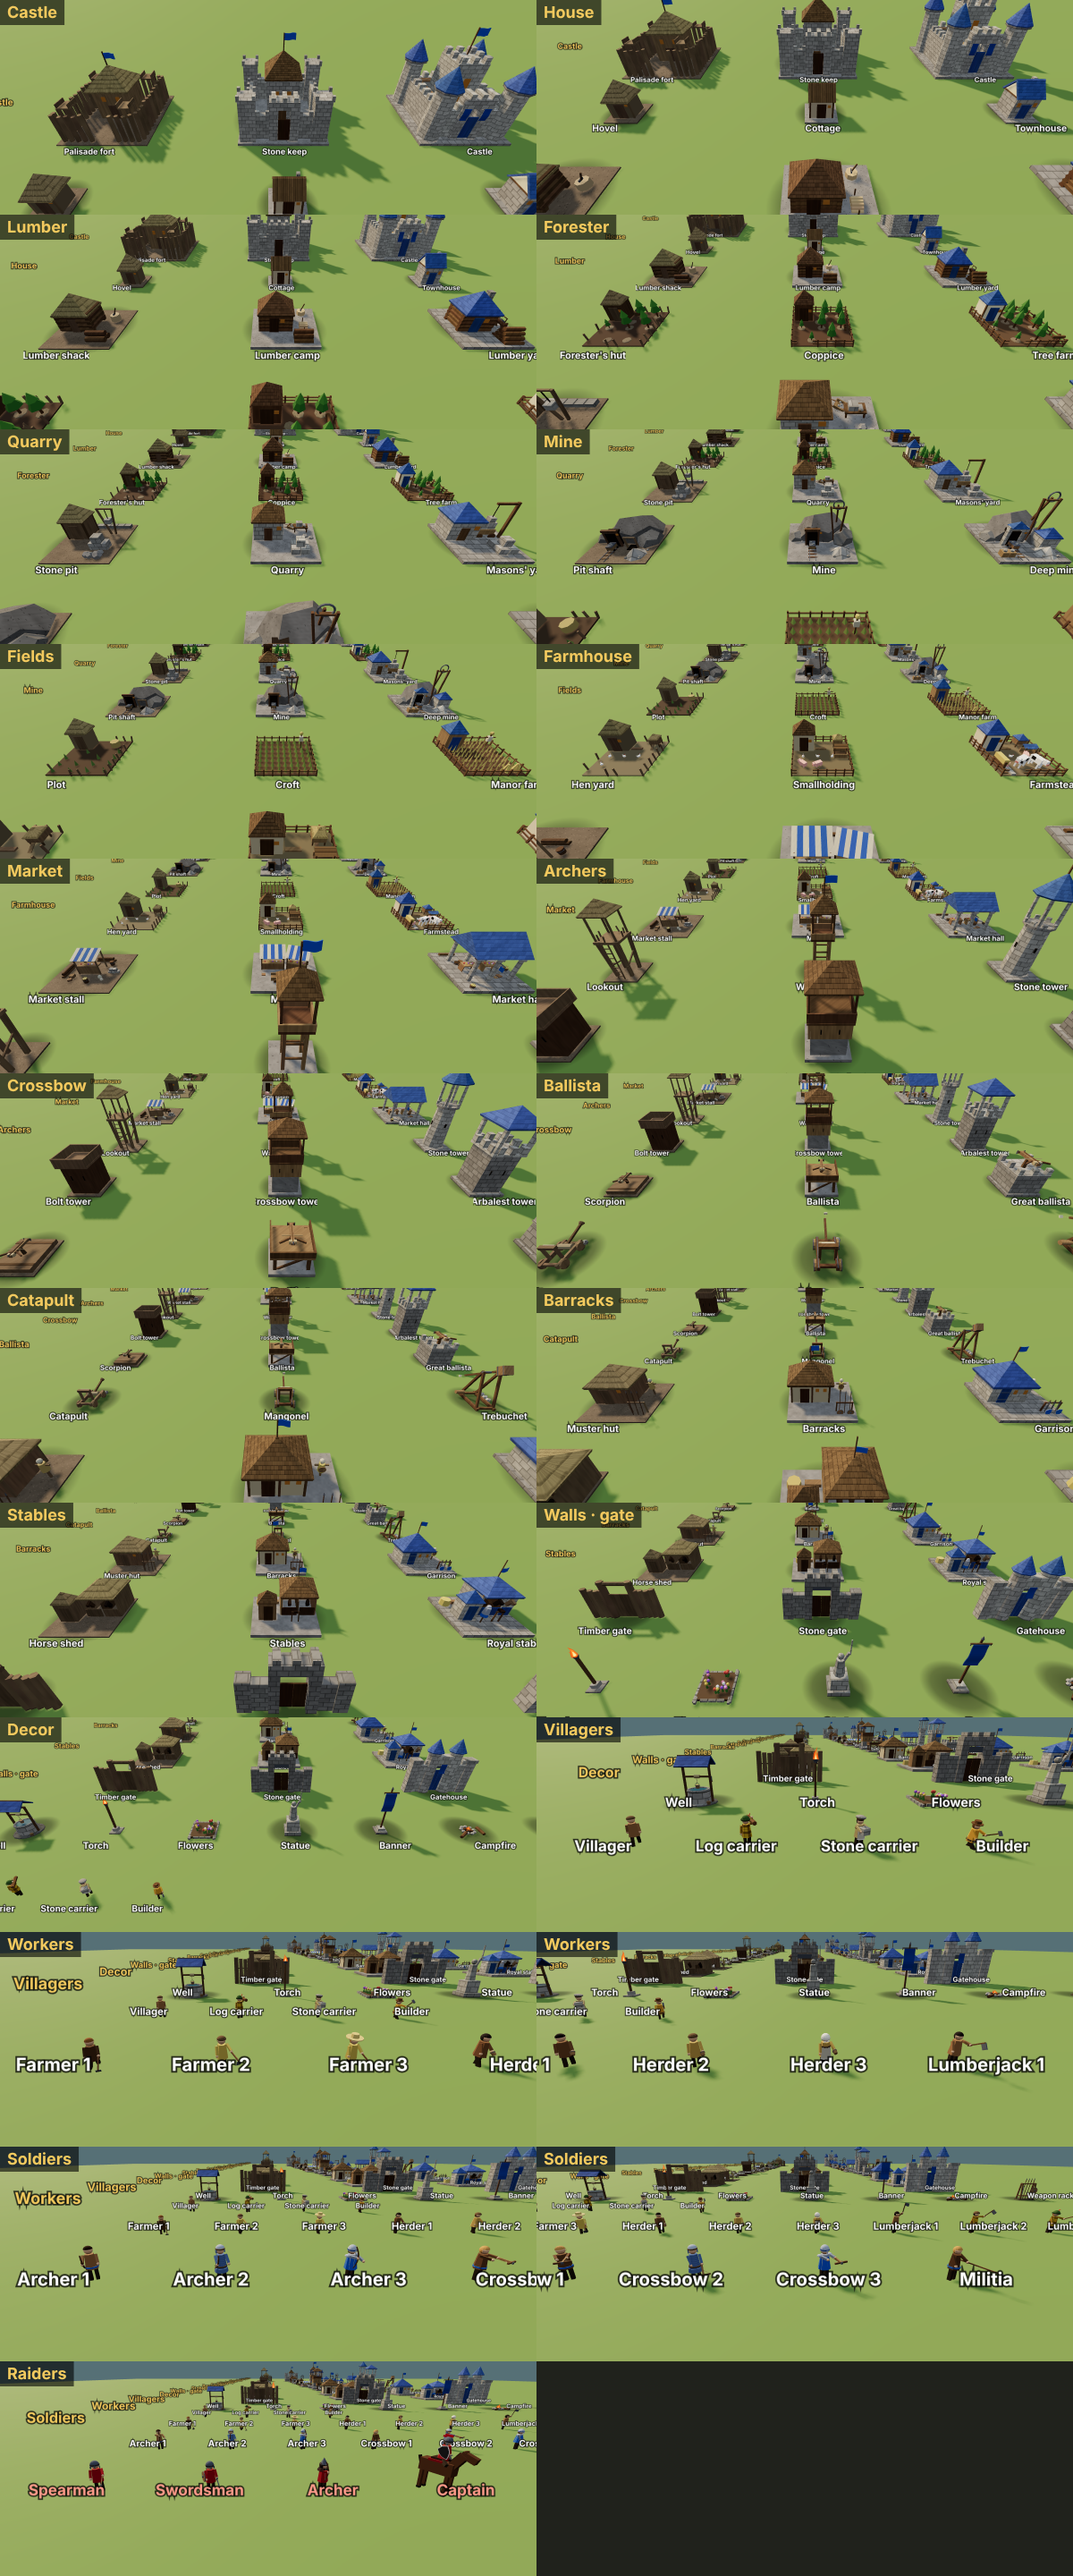
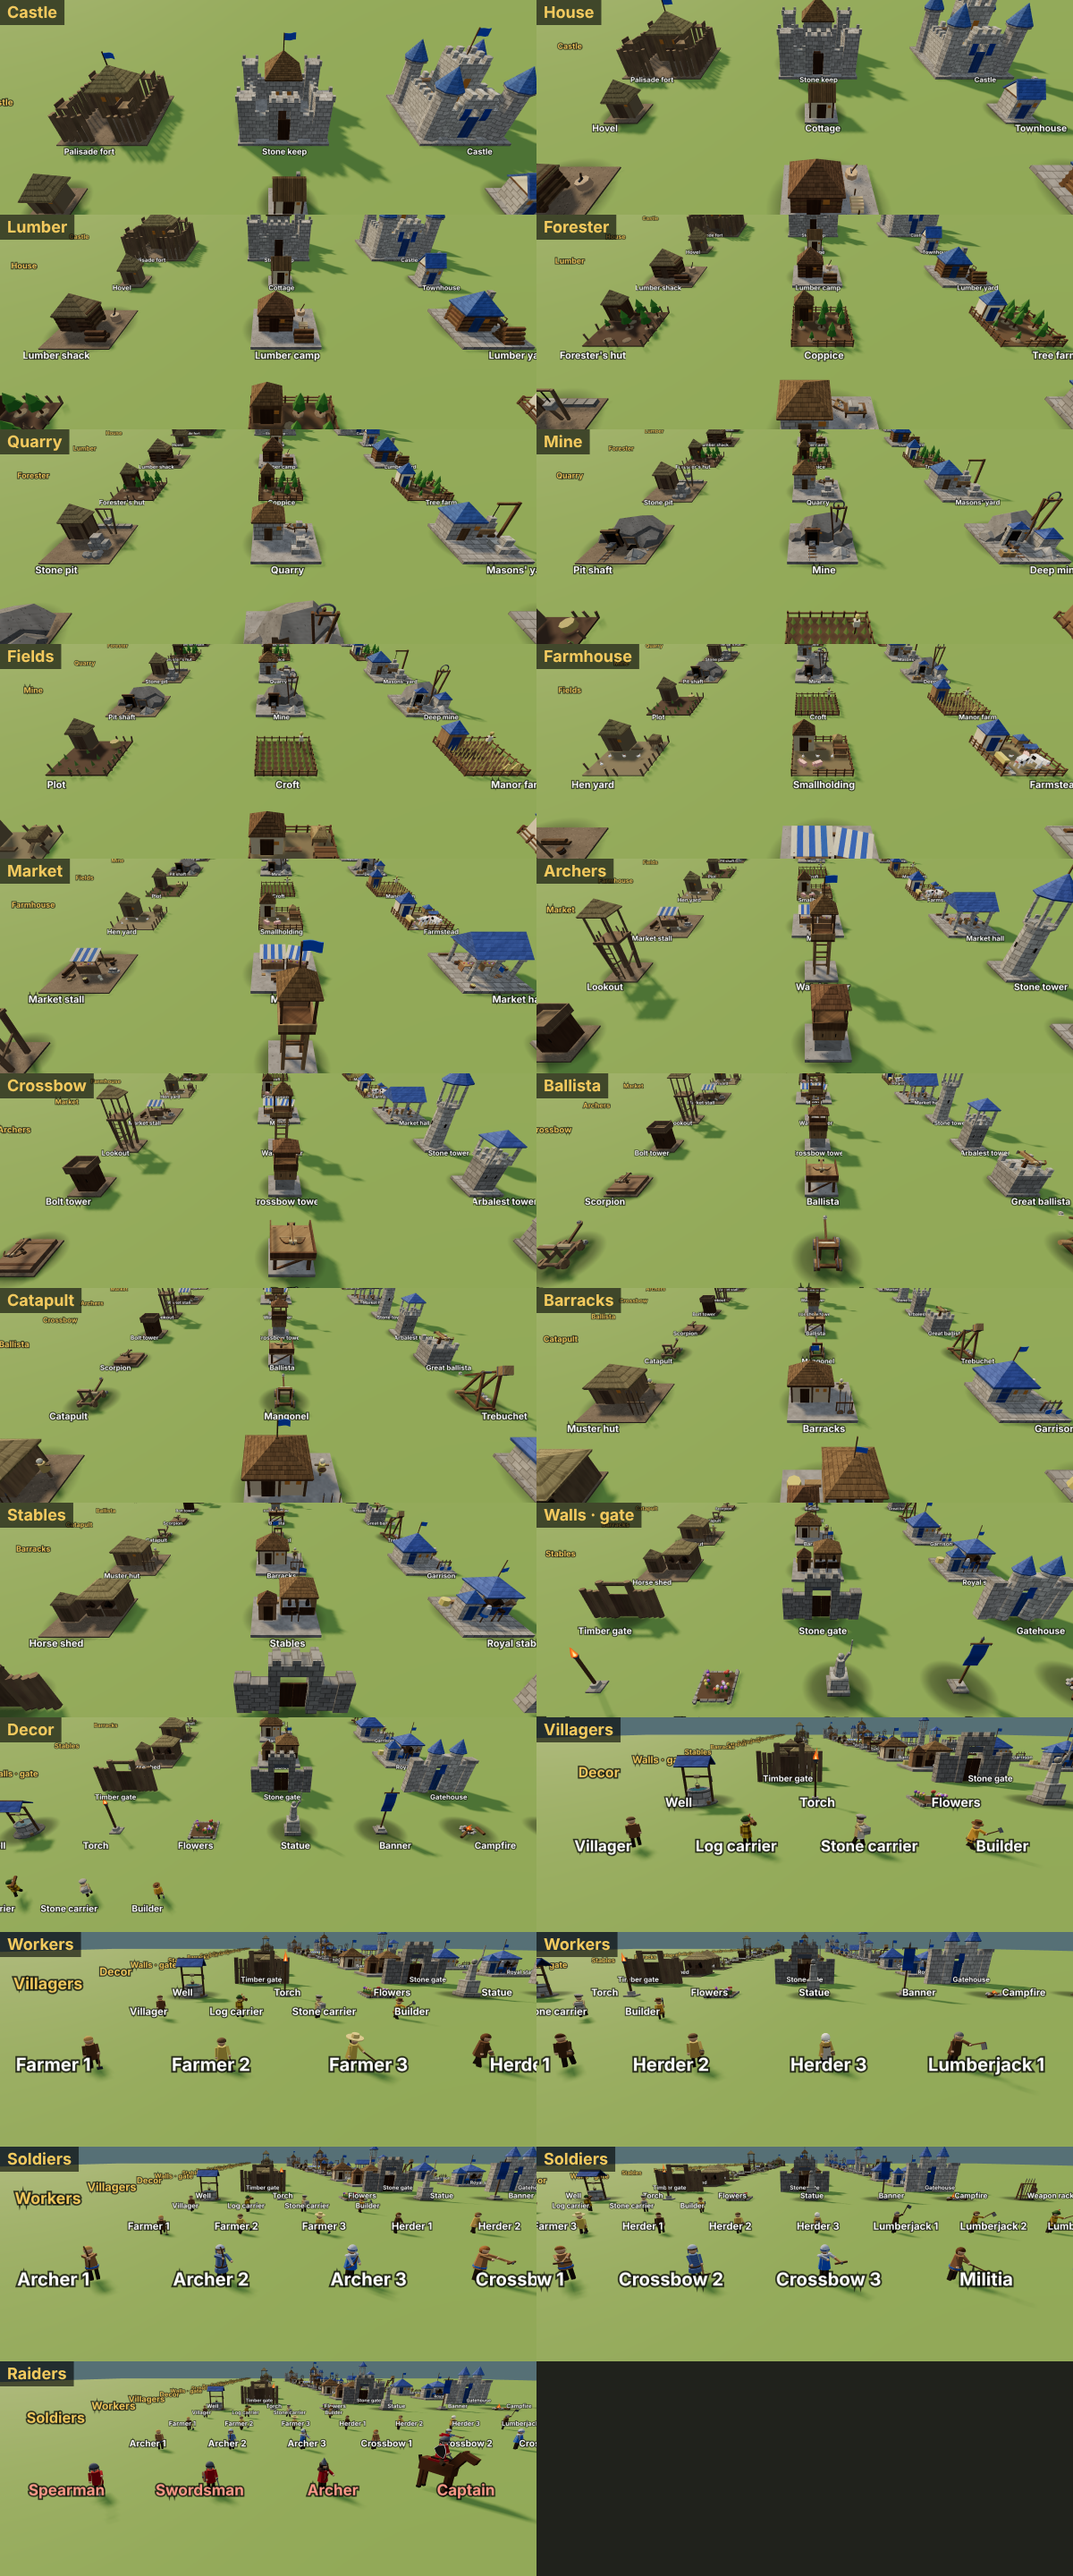
Decor picks four (five tools per tab with the path), smaller crossbow towers, curved ballista arms, catapult cups face forward with a stone, gallery lawn and camera reach every row
Claude-Session: https://claude.ai/code/session_01AE8sRRsVdpH9ETfQvtppox

diff --git a/index.html b/index.html
@@ -460,7 +460,7 @@ const DEF = {
             tiers: ['Horse shed', 'Stables', 'Royal stables'] },
   crossbow: { size: 1, name: 'Crossbow', maxdh: 1.8, hp: [200, 300, 430], cost: { wood: 20, gold: 15 }, noRoad: true, weapon: 'crossbow',
             up: [{ wood: 35, gold: 35 }, { stone: 45, gold: 65 }], range: [8, 9, 10], dmg: [6, 8, 10], rate: [.55, .48, .4],
-            archers: [2, 2, 2], shootY: [3.1, 3.4, 3.7], tiers: ['Bolt tower', 'Crossbow tower', 'Arbalest tower'] },
+            archers: [2, 2, 2], shootY: [2.4, 2.6, 2.85], tiers: ['Bolt tower', 'Crossbow tower', 'Arbalest tower'] },
   ballista: { size: 1, name: 'Ballista', maxdh: 1.8, hp: [170, 250, 350], cost: { wood: 30, gold: 25 }, noRoad: true,
             up: [{ wood: 40, gold: 45 }, { stone: 50, gold: 80 }], range: [14, 16, 18], dmg: [30, 42, 58], rate: [3.2, 2.9, 2.6], crew: [2, 2, 2],
             tiers: ['Scorpion', 'Ballista', 'Great ballista'] },
@@ -2019,35 +2019,36 @@ function makeFarmhouse(tier) {
 // crossbow tower: squat and solid next to the archers' tall lookout, an open fighting top behind a parapet for two crossbowmen:
 // tier 1 a log blockhouse with a plank parapet, tier 2 stone below a timber hoarding under a log canopy, tier 3 stone with
 // battlements and the blue roof on corner piers
-const XBOW_TOP = [2.05, 2.35, 2.65];
+const XBOW_K = .74, XBOW_TOP = [2.05, 2.35, 2.65].map(y => y * XBOW_K);   // fighting-top heights as drawn
 function makeCrossbowTower(tier, plinth) {
-  const g = new THREE.Group(), top = XBOW_TOP[tier - 1], HEAD = 1.55;
+  const g = new THREE.Group(), top = XBOW_TOP[tier - 1] / XBOW_K, HEAD = 1.55;
   if (plinth) g.add(box(2.0, 1.8, 2.0, tier === 2 ? M.plainStone : M.stone, 0, -.7, 0));
+  const t = new THREE.Group(); t.scale.setScalar(XBOW_K); g.add(t);   // drawn at XBOW_K: squat beside the archers' lookout, not bigger than it
   if (tier === 1) {
-    g.add(box(1.5, top - .12, 1.5, M.log, 0, (top - .12) / 2 + .06, 0));
-    for (const sx of [-1, 1]) g.add(box(.06, .3, .02, M.dark, sx * .35, 1.2, .76));
-    g.add(box(1.8, .12, 1.8, M.rough, 0, top - .06, 0));
-    for (const [x, z, w, d] of [[0, .87, 1.8, .06], [0, -.87, 1.8, .06], [.87, 0, .06, 1.8], [-.87, 0, .06, 1.8]]) g.add(box(w, .5, d, M.rough, x, top + .25, z));
-    for (let n = 0; n < 6; n++) { const r = box(.05, .05, .5, M.rough, -.9, .25 + n * .32, -.2); r.rotation.x = 0; g.add(r); }   // ladder rungs up the side
-    for (const sz of [-.42, .02]) g.add(box(.05, top, .05, M.rough, -.92, top / 2, sz - .2));
+    t.add(box(1.5, top - .12, 1.5, M.log, 0, (top - .12) / 2 + .06, 0));
+    for (const sx of [-1, 1]) t.add(box(.06, .3, .02, M.dark, sx * .35, 1.2, .76));
+    t.add(box(1.8, .12, 1.8, M.rough, 0, top - .06, 0));
+    for (const [x, z, w, d] of [[0, .87, 1.8, .06], [0, -.87, 1.8, .06], [.87, 0, .06, 1.8], [-.87, 0, .06, 1.8]]) t.add(box(w, .5, d, M.rough, x, top + .25, z));
+    for (let n = 0; n < 6; n++) { const r = box(.05, .05, .5, M.rough, -.9, .25 + n * .32, -.2); r.rotation.x = 0; t.add(r); }   // ladder rungs up the side
+    for (const sz of [-.42, .02]) t.add(box(.05, top, .05, M.rough, -.92, top / 2, sz - .2));
   } else if (tier === 2) {
-    g.add(box(1.55, top - 1.0, 1.55, M.plainStone, 0, (top - 1.0) / 2 + .2, 0));
-    g.add(box(1.75, .85, 1.75, M.wood, 0, top - .55, 0));
-    for (const sx of [-1, 1]) g.add(box(.05, .26, .02, M.dark, sx * .36, top - .55, .88));
-    g.add(box(1.85, .1, 1.85, M.timber, 0, top - .07, 0));
-    for (const [x, z, w, d] of [[0, .9, 1.85, .06], [0, -.9, 1.85, .06], [.9, 0, .06, 1.85], [-.9, 0, .06, 1.85]]) g.add(box(w, .5, d, M.timber, x, top + .25, z));
-    for (const sx of [-1, 1]) for (const sz of [-1, 1]) g.add(box(.08, HEAD, .08, M.timber, sx * .85, top + HEAD / 2, sz * .85));
-    g.add(pyramid(1.45, .7, 1, M.thatch, top + HEAD + .35));
+    t.add(box(1.55, top - 1.0, 1.55, M.plainStone, 0, (top - 1.0) / 2 + .2, 0));
+    t.add(box(1.75, .85, 1.75, M.wood, 0, top - .55, 0));
+    for (const sx of [-1, 1]) t.add(box(.05, .26, .02, M.dark, sx * .36, top - .55, .88));
+    t.add(box(1.85, .1, 1.85, M.timber, 0, top - .07, 0));
+    for (const [x, z, w, d] of [[0, .9, 1.85, .06], [0, -.9, 1.85, .06], [.9, 0, .06, 1.85], [-.9, 0, .06, 1.85]]) t.add(box(w, .5, d, M.timber, x, top + .25, z));
+    for (const sx of [-1, 1]) for (const sz of [-1, 1]) t.add(box(.08, HEAD, .08, M.timber, sx * .85, top + HEAD / 2, sz * .85));
+    t.add(pyramid(1.45, .7, 1, M.thatch, top + HEAD + .35));
   } else {
-    g.add(box(1.6, top, 1.6, M.stone, 0, top / 2 + .2, 0));
-    for (const sx of [-1, 1]) g.add(box(.06, .3, .03, M.dark, sx * .38, top * .6, .81));
-    g.add(box(1.85, .14, 1.85, M.stone2, 0, top + .13, 0));
+    t.add(box(1.6, top, 1.6, M.stone, 0, top / 2 + .2, 0));
+    for (const sx of [-1, 1]) t.add(box(.06, .3, .03, M.dark, sx * .38, top * .6, .81));
+    t.add(box(1.85, .14, 1.85, M.stone2, 0, top + .13, 0));
     for (let n = 0; n < 4; n++) for (const k of [-1, 0, 1]) {               // battlements: merlons with gaps on every side
       const a = n * Math.PI / 2, [x, z] = [Math.sin(a) * .86 + Math.cos(a) * k * .62, Math.cos(a) * .86 - Math.sin(a) * k * .62];
-      g.add(box(.3, .45, .3, M.stone2, x, top + .42, z));
+      t.add(box(.3, .45, .3, M.stone2, x, top + .42, z));
     }
-    for (const sx of [-1, 1]) for (const sz of [-1, 1]) g.add(box(.18, HEAD, .18, M.stone2, sx * .82, top + .2 + HEAD / 2, sz * .82));
-    g.add(pyramid(1.5, .85, 1, M.roofBlue, top + .2 + HEAD + .42));
+    for (const sx of [-1, 1]) for (const sz of [-1, 1]) t.add(box(.18, HEAD, .18, M.stone2, sx * .82, top + .2 + HEAD / 2, sz * .82));
+    t.add(pyramid(1.5, .85, 1, M.roofBlue, top + .2 + HEAD + .42));
   }
   return g;
 }
@@ -2059,9 +2060,16 @@ function ballistaTurret(k) {
   const t = new THREE.Group(); t.userData.turret = true;
   t.add(cyl(.07, .1, .45, 6, M.timber, 0, .22, 0));
   t.add(box(.16, .13, 1.15, M.wood, 0, .5, .05));                                    // the stock
-  for (const sx of [-1, 1]) { const arm = box(.06, .07, .62, M.timber, sx * .27, .52, .42); arm.rotation.y = sx * 1.05; t.add(arm); }
+  // curved bow arms: out from the springs, bowing forward, the tips swept back to the string
+  for (const sx of [-1, 1]) {
+    const P = k => { const u = k / 6; return [sx * (.1 + .42 * u), .52, .5 + .16 * Math.sin(Math.PI * u * .8) - .3 * u * u]; };
+    for (let k = 0; k < 6; k++) {
+      const [x0, y0, z0] = P(k), [x1, , z1] = P(k + 1), L = Math.hypot(x1 - x0, z1 - z0);
+      const sg = box(.065 - k * .006, .07 - k * .005, L + .02, M.timber, (x0 + x1) / 2, y0, (z0 + z1) / 2); sg.rotation.y = Math.atan2(x1 - x0, z1 - z0); t.add(sg);
+    }
+  }
   for (const sx of [-1, 1]) t.add(box(.13, .16, .13, ropeM, sx * .09, .52, .52));      // torsion springs either side of the stock
-  t.add(box(.86, .015, .015, ropeM, 0, .56, .2));                                      // the drawn string
+  t.add(box(1.04, .015, .015, ropeM, 0, .52, .26));                                     // the drawn string, between the arm tips
   const bolt = new THREE.Group(); bolt.userData.bolt = true; t.add(bolt);
   bolt.add(box(.035, .035, .95, M.timber, 0, .6, .15)); const tip = cone(.045, .14, 4, M.iron, 0, .6, .68); tip.rotation.x = Math.PI / 2; bolt.add(tip);
   const w = cyl(.06, .06, .3, 6, M.timber, 0, .5, -.52); w.rotation.z = Math.PI / 2; t.add(w);
@@ -2103,8 +2111,10 @@ function makeCatapult(tier) {
     const tb = cyl(.13, .13, .62, 8, ropeM, 0, .4, -.32); tb.rotation.z = Math.PI / 2; e.add(tb);
     arm.position.set(0, .4, -.32); e.add(arm);
     arm.add(box(.09, 1.25, .09, M.timber, 0, .62, 0));
-    if (tier === 1) arm.add(cyl(.13, .09, .1, 8, M.wood, 0, 1.25, 0));
-    else { arm.add(box(.012, .3, .012, ropeM, .05, 1.38, 0)); arm.add(box(.15, .05, .12, M.canvas, .05, 1.52, 0)); }
+    // the cup opens off the arm's face (+z), so cocked back it holds its stone face up and flings it forward
+    if (tier === 1) { const cup = cyl(.13, .09, .1, 8, M.wood, 0, 1.22, .07); cup.rotation.x = Math.PI / 2; arm.add(cup); }
+    else { const sl = box(.16, .14, .03, M.canvas, 0, 1.22, .1); arm.add(sl); for (const sx of [-1, 1]) arm.add(box(.012, .012, .1, ropeM, sx * .07, 1.22, .05)); }
+    const shot = new THREE.Mesh(new THREE.DodecahedronGeometry(.09, 0), M.stone2); shot.position.set(0, 1.22, .16); shot.userData.bolt = true; shot.castShadow = true; arm.add(shot);
     if (tier === 2) for (const sx of [-1, 1]) e.add(box(.04, .04, 1.52, M.iron, sx * .36, .4, 0));
     const ball = new THREE.Mesh(new THREE.DodecahedronGeometry(.13, 0), M.stone2); ball.position.set(.5, .2, -.75); ball.castShadow = true; e.add(ball);
   } else {
@@ -2115,7 +2125,8 @@ function makeCatapult(tier) {
     arm.position.set(0, 2.15, 0); e.add(arm);
     arm.add(box(.11, 2.7, .11, M.timber, 0, .7, 0));                                  // long end up (+y), short end down
     arm.add(box(.5, .5, .5, M.wood, 0, -.82, 0)); for (const y of [-.65, -1.0]) arm.add(box(.52, .05, .52, M.iron, 0, y, 0));   // counterweight
-    arm.add(box(.012, .5, .012, ropeM, 0, 2.25, 0)); arm.add(box(.16, .06, .14, M.canvas, 0, 2.5, 0));
+    arm.add(box(.012, .5, .012, ropeM, 0, 2.25, .04)); arm.add(box(.18, .16, .04, M.canvas, 0, 2.5, .08));   // sling pouch on the arm's face
+    const shot = new THREE.Mesh(new THREE.DodecahedronGeometry(.11, 0), M.stone2); shot.position.set(0, 2.5, .17); shot.userData.bolt = true; shot.castShadow = true; arm.add(shot);
     for (let n = 0; n < 3; n++) { const st = new THREE.Mesh(new THREE.DodecahedronGeometry(.15, 0), M.stone2); st.position.set(.75, .15, -.6 + n * .3); st.castShadow = true; e.add(st); }
     const wn = cyl(.12, .12, .5, 8, M.wood, -.75, .35, -.6); wn.rotation.z = Math.PI / 2; e.add(wn);
   }
@@ -3877,7 +3888,7 @@ const POSTS = {
   ].map((L, i) => L.map(([x, y, z]) => [x * CASTLE_K[i], y, z * CASTLE_K[i]])),
 };
 // crossbowmen on the fighting top; siege crews: the loader at the winch, the gunner behind (ballista on its deck, catapult on the ground)
-POSTS.crossbow = XBOW_TOP.map(y => [[.35, y, .22], [-.35, y, -.22]]);
+POSTS.crossbow = XBOW_TOP.map(y => [[.3, y, .18], [-.3, y, -.18]]);
 POSTS.ballista = BALLISTA_DECK.map((y, i) => [[.55 * BALLISTA_K[i], y, -.3], [-.2, y, -.7 * BALLISTA_K[i]]]);
 POSTS.catapult = [[[.72, 0, -.4], [-.62, 0, .15]], [[.8, 0, -.45], [-.7, 0, .15]], [[-.85, 0, -.62], [.85, 0, .5]]];
 function postOffset(B, a) { const L = POSTS[B.type][B.tier - 1], [x, y, z] = L[a % L.length], [rx, rz] = faceRot(B.face || 0, x, z); return [rx, y, rz]; }
@@ -4719,8 +4730,8 @@ const LOAD_SLOTS = {
   eco: [['food', ['farm', 'farmhouse']], ['wood', ['lodge', 'forester']], ['stone', ['quarry', 'mine']]],
   def: [['ranged', ['tower', 'crossbow']], ['siege', ['ballista', 'catapult']], ['barracks', ['barracks', 'stables']]],
 };
-const DECOR_ALL = ['well', 'torch', 'flowers', 'statue', 'banner', 'campfire', 'rack'], DECOR_PICK = 5;
-const LOAD_DEFAULT = { food: 'farm', wood: 'lodge', stone: 'quarry', ranged: 'tower', siege: 'ballista', barracks: 'barracks', decor: ['well', 'torch', 'flowers', 'statue', 'banner'] };
+const DECOR_ALL = ['well', 'torch', 'flowers', 'statue', 'banner', 'campfire', 'rack'], DECOR_PICK = 4;   // plus the path: five tools in every tab, one row in the dock
+const LOAD_DEFAULT = { food: 'farm', wood: 'lodge', stone: 'quarry', ranged: 'tower', siege: 'ballista', barracks: 'barracks', decor: ['well', 'torch', 'flowers', 'statue'] };
 var LOADOUT = { ...LOAD_DEFAULT, decor: LOAD_DEFAULT.decor.slice() };
 try {   // last game's picks; anything unknown falls back to the default
   const L = JSON.parse(localStorage.getItem('mtd-loadout') || 'null');
@@ -4796,7 +4807,7 @@ function keyCamera(dt) {
 // ---------- design gallery (Admin → Gallery, or open with ?gallery): every building at every tier and every character, on a lawn ----------
 // its own scene, lit like midday; the game is paused underneath and comes back untouched on Back
 var galleryOn = false;
-let gScene = null, gSaved = null, gDoors = 0, gDoorK = 0, gWalk = false;
+let galEnd = 0, gScene = null, gSaved = null, gDoors = 0, gDoorK = 0, gWalk = false;
 const gItems = [], gPeople = [], gRows = [], GAL_X = [10, 22, 34];     // gRows: { title, z, depth } for tools/render
 function galLabel(text, color, x, z, big, k = 1) {
   const sp = new THREE.Sprite(new THREE.SpriteMaterial({ map: textTex(text, color), transparent: true, depthWrite: false, toneMapped: false }));
@@ -4844,13 +4855,18 @@ function buildGallery() {
     { name: 'Crossbow 1', guard: 1, xbow: 1 }, { name: 'Crossbow 2', guard: 2, xbow: 1 }, { name: 'Crossbow 3', guard: 3, xbow: 1 }, { name: 'Militia', kit: 1 }, { name: 'Guard', kit: 2 }, { name: 'Man-at-arms', kit: 3 },
     { name: 'Rider', kit: 1, cav: 1 }, { name: 'Lancer', kit: 2, cav: 1 }, { name: 'Knight', kit: 3, cav: 1 }]);
   people('Raiders', [{ name: 'Spearman', raider: 'spear' }, { name: 'Swordsman', raider: 'sword' }, { name: 'Archer', raider: 'archer' }, { name: 'Captain', raider: 'captain' }]);
+  // the lawn, the sun's shadow box and the camera's reach all grow with the rows (they used to stop short of the people)
+  galEnd = z; const mid = z / 2, half = z / 2 + 14;
+  ground.geometry.dispose(); ground.geometry = new THREE.PlaneGeometry(260, z + 160).rotateX(-Math.PI / 2); ground.position.set(24, 0, mid);
+  s.target.position.set(24, 0, mid); s.position.set(-12, 46, mid - 36);
+  Object.assign(s.shadow.camera, { left: -half, right: half, top: half, bottom: -half, far: half * 2 + 90 }); s.shadow.camera.updateProjectionMatrix();
 }
 function openGallery() {
   if (galleryOn) return;
   if (!gScene) buildGallery();
   gSaved = { target: target.clone(), yaw, pitch, dist, paused, lim: { ...CAM_LIM } };
   paused = true; galleryOn = true; hideGhost();
-  Object.assign(CAM_LIM, { lo: -10, hi: 110, near: 4 });
+  Object.assign(CAM_LIM, { lo: -10, hi: Math.max(110, galEnd + 10), near: 4 });   // as far as the rows run
   target.set(22, 0, 16); yaw = 0; pitch = .75; dist = 34; updateCam();
   $('#app').classList.add('gallery'); $('#galBar').hidden = false;
 }
